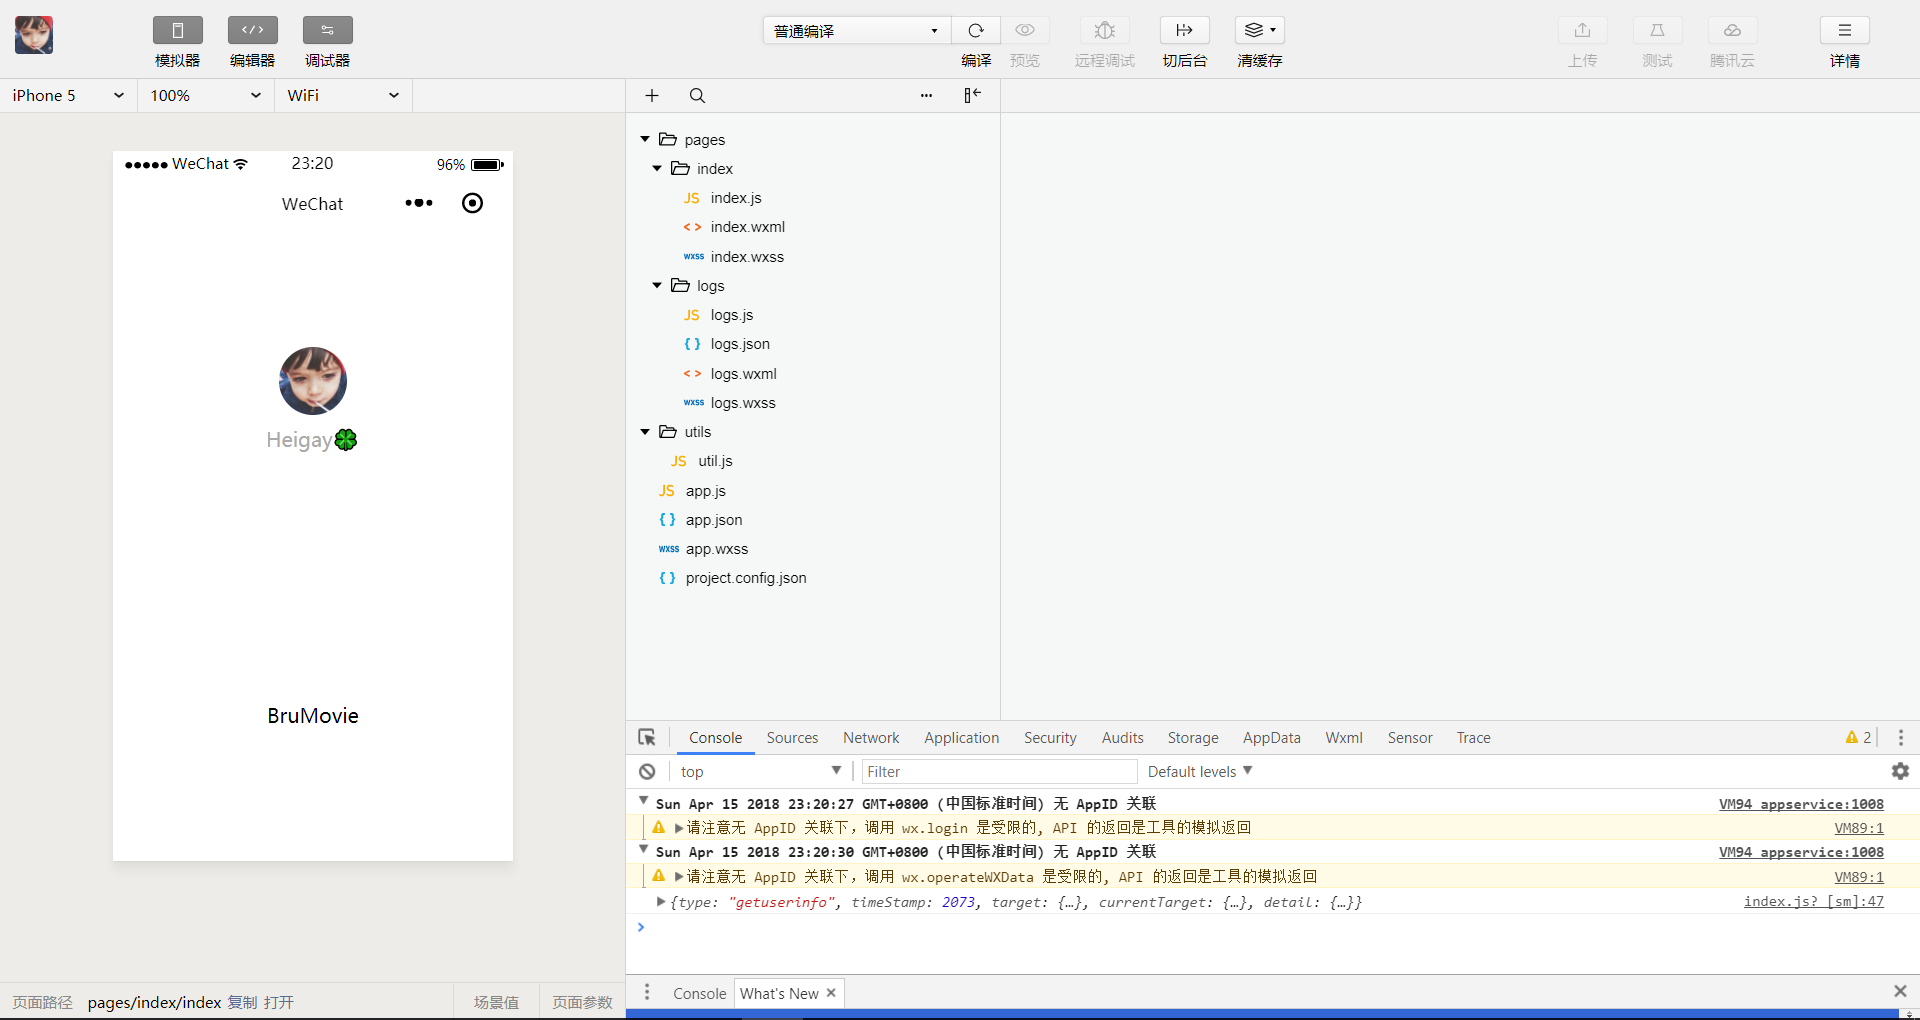
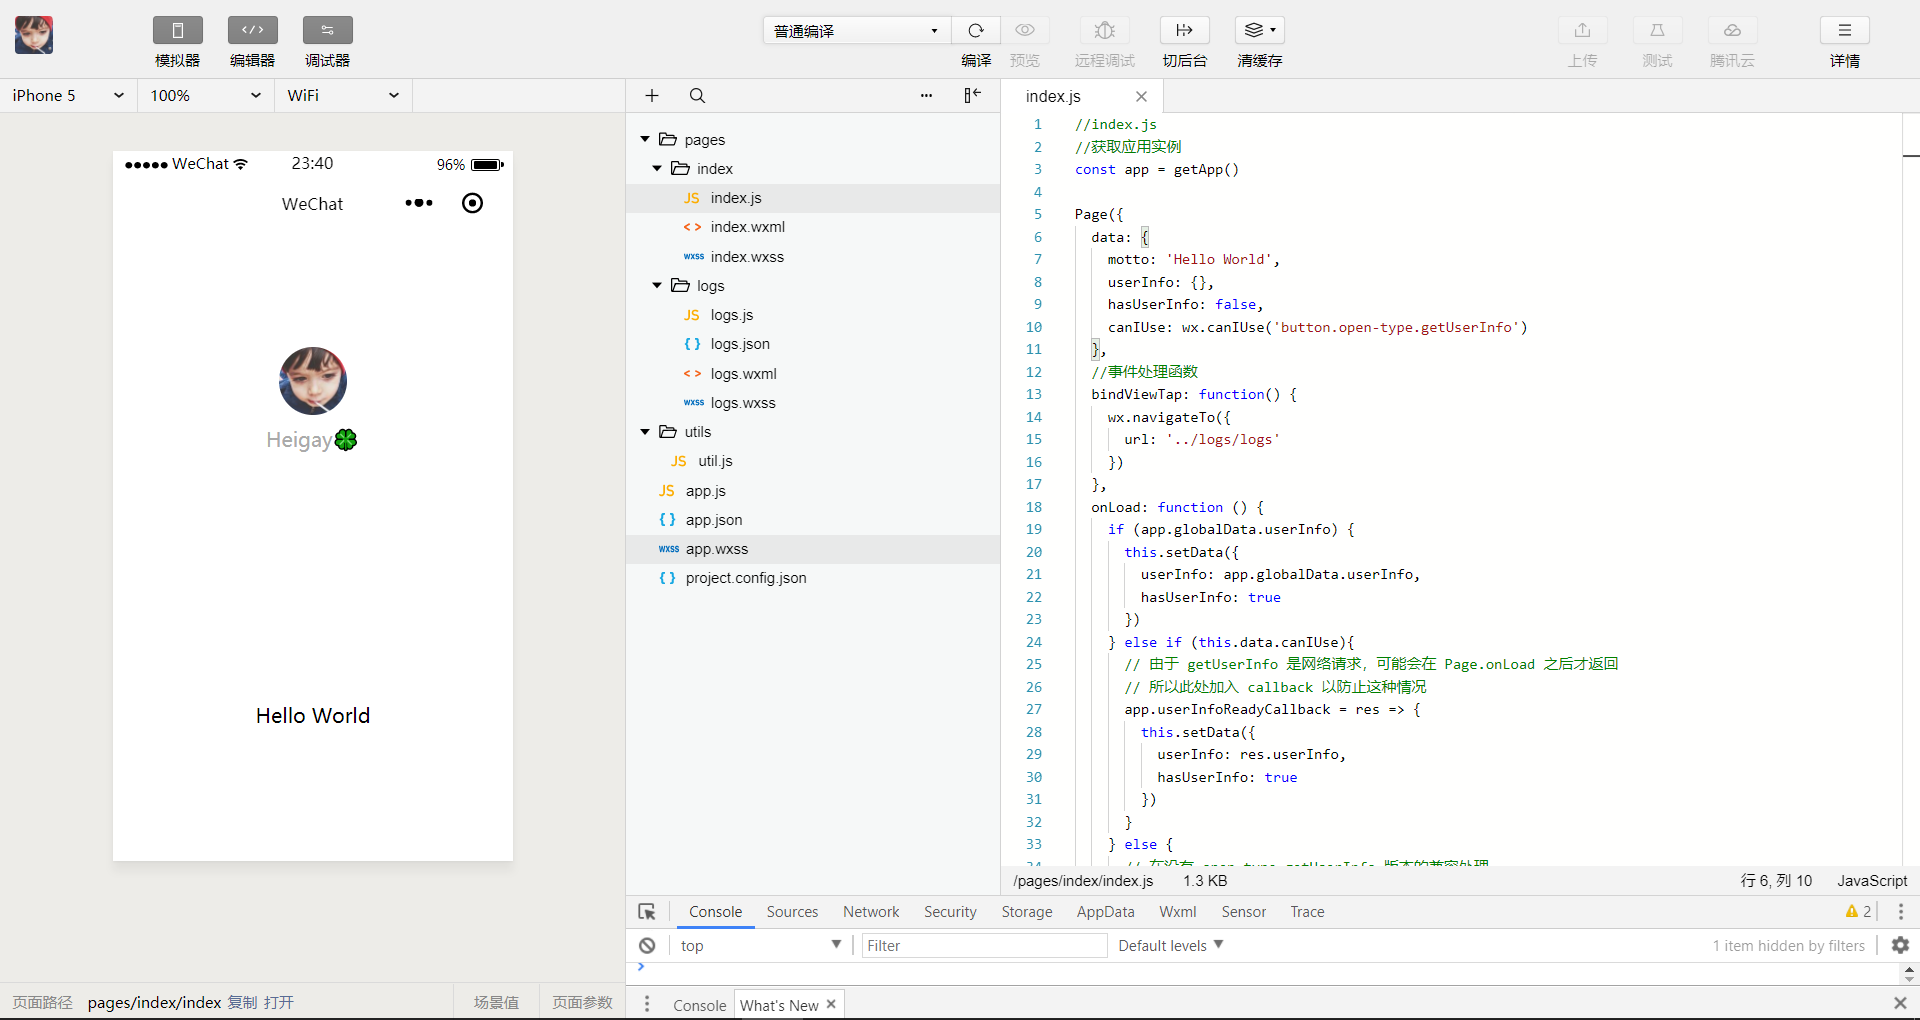
add something
add something

diff --git a/_posts/2018-04-15-Wechat-web-developing-tool-learning.md b/_posts/2018-04-15-Wechat-web-developing-tool-learning.md
@@ -7,4 +7,24 @@ title: "微信web开发者工具入门"
 
 ## 安装
 下载地址：！[微信web开发者工具下载](https://mp.weixin.qq.com/debug/wxadoc/dev/devtools/download.html?t=2018412)
-下载完成后打开开发者工具，用关联了小程序账号的微信账号扫码登录。
+## 使用
+安装完成后打开，使用关联了小程序账号的微信进行扫码登录
+！[](https://github.com/Heimzeng/Heimzeng.github.io/blob/master/assets/img/post/ssaad_hw3/login.jpg?raw=true)
+登录完成后进入到项目选择界面，由于我们开发的是小程序，所以选择新建小程序
+![](https://github.com/Heimzeng/Heimzeng.github.io/blob/master/assets/img/post/ssaad_hw3/mainpage.png?raw=true)
+进入小程序创建页面，我们需要新建一个空目录给我们的小程序，并且填入对应的APPID，再输入我们的项目名称
+![](https://github.com/Heimzeng/Heimzeng.github.io/blob/master/assets/img/post/ssaad_hw3/createAProject.png?raw=true)
+当然你也选择无APPID的体验模式，但是小程序的部分功能会受到限制
+![](https://github.com/Heimzeng/Heimzeng.github.io/blob/master/assets/img/post/ssaad_hw3/createAProject_noID.png?raw=true)
+点击确定我们就可以得到一个初始的小程序了
+![](https://github.com/Heimzeng/Heimzeng.github.io/blob/master/assets/img/post/ssaad_hw3/helloworld.png?raw=true)
+
+接下来我们学习如何使用微信web开发者工具
+主界面分为左中右三块，左边是当前小程序的实时展示和操作，中间部分是整个Project的目录，右边部分是编码部分
+在pages整个目录下，一个子目录代表一个页面，里面装的只能是以页名开头的不同后缀名的文件
+比如index页面目录下，就只有index.\*这样的文件
+通过我们之前学到的web相关知识来看，小程序的网页都由js脚本动态生成。于是我们可以尝试修改一些数据，比如，把初始的Hello World改成我们的项目名"布鲁电影"
+点击编译便可以看到更改后的效果
+![](https://github.com/Heimzeng/Heimzeng.github.io/blob/master/assets/img/post/ssaad_hw3/changeTitle.png?raw=true)
+
+至此，我们搭建了小程序开发的基本环境，并了解了该工具的基本布局和操作，在设计工作完全完成后，我们会开始进一步的编码工作。
